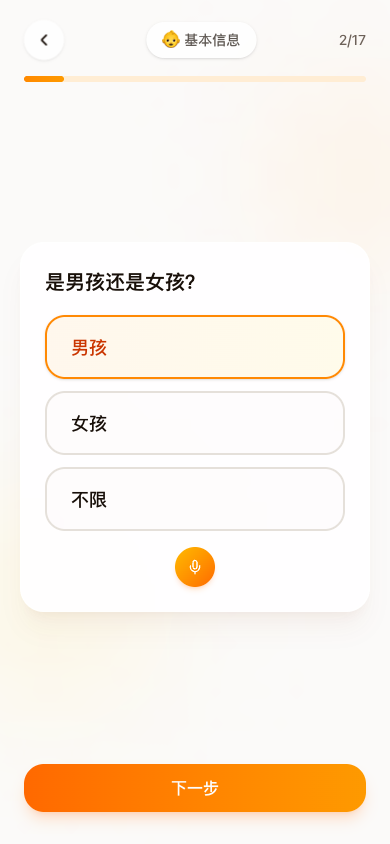
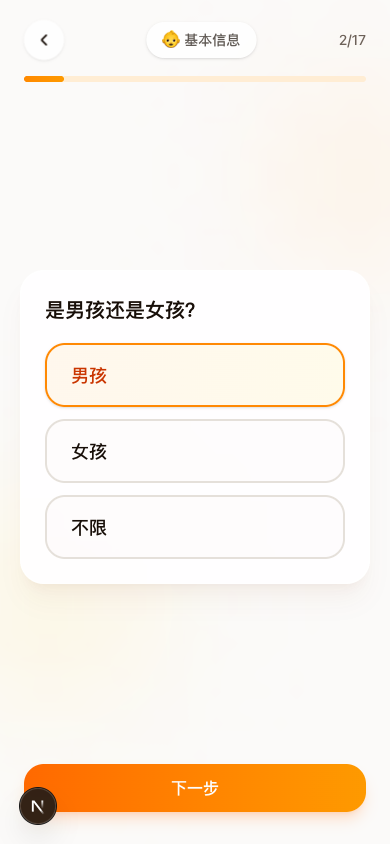
docs: update README and refresh all screenshots
- Update voice input description (only custom text cards have voice)
- Remove Supabase from tech stack (dependency removed)
- Update project structure (removed voice-parser.ts)
- Refresh all 7 product screenshots with latest UI

Changed region(s): [[0.0923, 0.3081, 0.8923, 0.6469], [0.0308, 0.6469, 0.5538, 0.7393], [0.0308, 0.9242, 0.1538, 0.9858]]

diff --git a/README.md b/README.md
@@ -23,8 +23,8 @@
 
 - **卡片式交互** - 17 张卡片覆盖 6 个维度（基本信息、期望寓意、家族信息、文化偏好、生活背景、自由补充），逐步收集用户偏好
 - **探探风格滑动** - 结果页采用 Tinder/探探式左右滑动卡片，右划收藏、左划跳过
-- **语音输入** - 所有卡片均支持语音输入，基于智谱 GLM-ASR 语音识别 API
-- **快速起名** - 首页输入姓氏即可直接跳到 AI 生成，无需走完整卡片流程
+- **语音输入** - 自定义文本输入卡片支持语音输入（姓氏、名字、日期、自由补充），基于智谱 GLM-ASR 语音识别
+- **快速起名** - 首页输入姓氏 + 选择性别即可直接跳到 AI 生成，无需走完整卡片流程
 - **AI 生成** - 调用智谱 GLM-4 大模型，结合用户上下文生成 5 个有文化内涵的名字
 - **移动端优先** - 针对手机端设计，暖色调 UI、毛玻璃卡片、流畅动画
 
@@ -38,7 +38,6 @@
 | 状态管理 | Zustand |
 | AI 模型 | 智谱 GLM-4 (OpenAI 兼容接口) |
 | 语音识别 | 智谱 GLM-ASR + MediaRecorder API |
-| 数据库 | Supabase (PostgreSQL) |
 | 部署 | Vercel |
 
 ## 项目结构
@@ -58,11 +57,11 @@ name-agent/
 │   ├── VoiceButton.tsx           # 通用语音按钮组件
 │   ├── cards/
 │   │   ├── CardStack.tsx         # 卡片流程容器（进度条、导航）
-│   │   ├── TextInputCard.tsx     # 文本输入卡片
+│   │   ├── TextInputCard.tsx     # 文本输入卡片（带语音）
 │   │   ├── SelectCard.tsx        # 单选卡片
 │   │   ├── MultiSelectCard.tsx   # 多选卡片
 │   │   ├── SliderCard.tsx        # 滑块卡片
-│   │   ├── DatePickerCard.tsx    # 日期选择卡片
+│   │   ├── DatePickerCard.tsx    # 日期选择卡片（带语音）
 │   │   └── VoiceInputCard.tsx    # 语音输入卡片
 │   └── ui/                       # Shadcn/UI 组件
 ├── hooks/
@@ -72,7 +71,6 @@ name-agent/
 ├── lib/
 │   ├── types.ts                  # TypeScript 类型定义
 │   ├── cards-config.ts           # 17 张卡片配置
-│   ├── voice-parser.ts           # 语音文本 → 选项匹配
 │   ├── utils.ts                  # 工具函数
 │   └── ai/
 │       ├── client.ts             # 智谱 AI 客户端
@@ -110,13 +108,11 @@ npm run dev
 | 变量名 | 说明 |
 |--------|------|
 | `ZHIPU_API_KEY` | 智谱 AI API Key（必填） |
-| `NEXT_PUBLIC_SUPABASE_URL` | Supabase 项目 URL（可选） |
-| `NEXT_PUBLIC_SUPABASE_ANON_KEY` | Supabase 匿名 Key（可选） |
 
 ## 用户流程
 
-1. **首页** - 点击「开始起名」进入完整流程，或输入姓氏点击「马上起名」快速生成
-2. **卡片交互** - 依次回答 17 个问题（可跳过非必填项），支持语音和手动输入
+1. **首页** - 点击「开始起名」进入完整流程，或输入姓氏 + 选择性别点击「马上起名」快速生成
+2. **卡片交互** - 依次回答 17 个问题（可跳过非必填项），文本输入支持语音
 3. **AI 生成** - 提交后 AI 根据所有上下文信息生成 5 个推荐名字
 4. **滑动选名** - 左右滑动浏览名字，右划收藏、左划跳过
 5. **结果汇总** - 浏览完毕后查看收藏列表，可「换一批」重新生成
